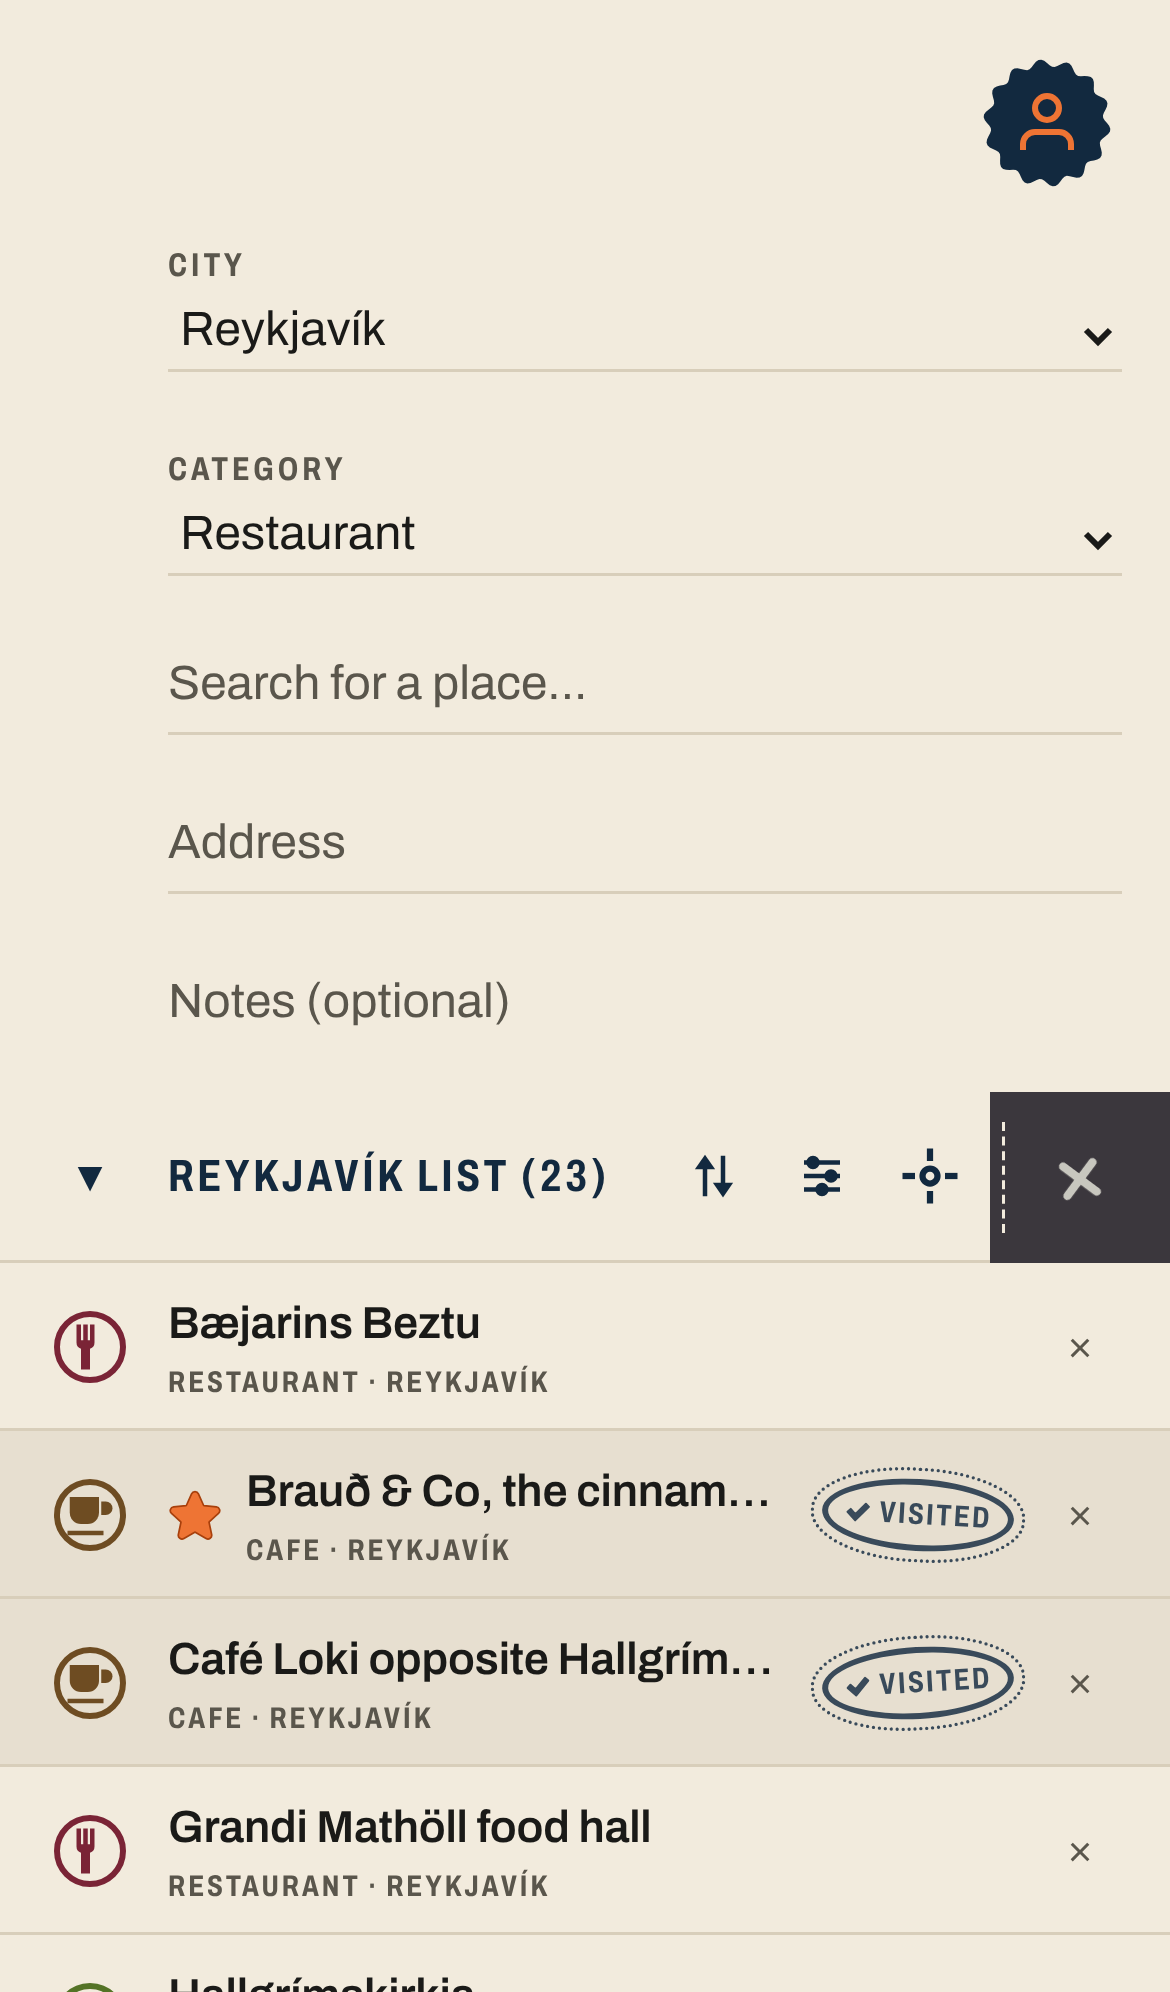
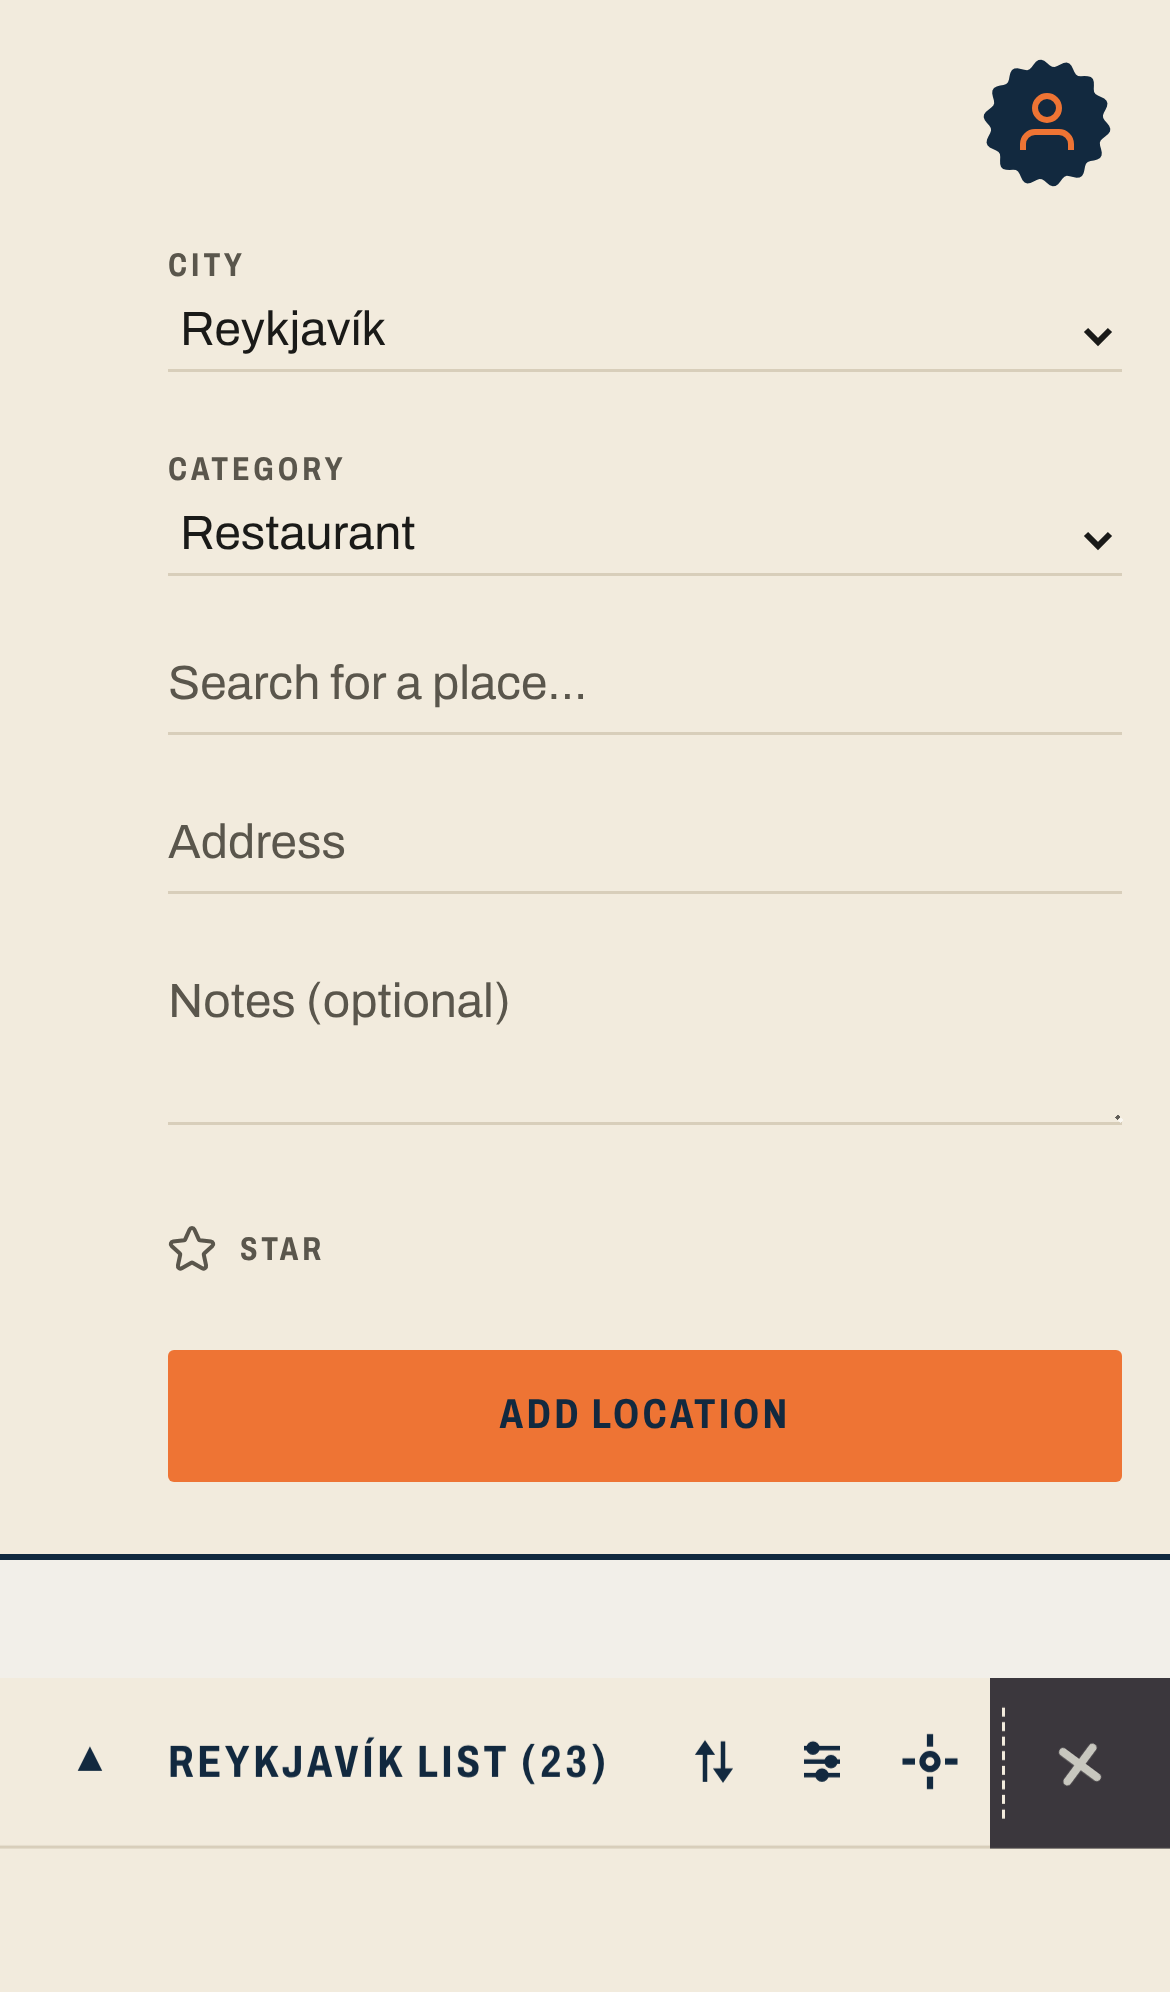
Design loops: work in progress
Claude-Session: https://claude.ai/code/session_01DgU7ophvEWkwzRHqdd2X8u

diff --git a/design/add-button-placement/concepts/stub/render.js b/design/add-button-placement/concepts/stub/render.js
@@ -45,12 +45,15 @@ function inject(rideMs) {
       const fp = document.getElementById('filtersPanel'); if (fp && fp.classList.contains('visible')) document.getElementById('toggleFiltersBtn').click();
       if (!document.getElementById('sortMenu').hidden) document.getElementById('sortScrim').click();
     }
-    fab.click();
-    const nowOpen = fab.classList.contains('active');
-    if (nowOpen && !collapsed()) { dropped = true; document.getElementById('collapseBtn').click(); }   // the list drops to its band
-    if (!nowOpen && dropped) { dropped = false; if (collapsed()) document.getElementById('collapseBtn').click(); }
+    fab.click();   // the app's own add (async: auth first), so the drop follows its state below
   });
-  new MutationObserver(() => { nb.classList.toggle('open', fab.classList.contains('active')); nb.setAttribute('aria-label', fab.classList.contains('active') ? 'Close' : 'Add a place'); })
+  new MutationObserver(() => {
+    const on = fab.classList.contains('active');
+    if (on === nb.classList.contains('open')) return;
+    nb.classList.toggle('open', on); nb.setAttribute('aria-label', on ? 'Close' : 'Add a place');
+    if (on && !collapsed()) { dropped = true; document.getElementById('collapseBtn').click(); }     // the list drops to its band
+    if (!on && dropped) { dropped = false; if (collapsed()) document.getElementById('collapseBtn').click(); }   // and comes back
+  })
     .observe(fab, { attributes: true, attributeFilter: ['class'] });
   window.fitTitle = () => {
     const h2 = document.querySelector('#locationsHeader h2');
